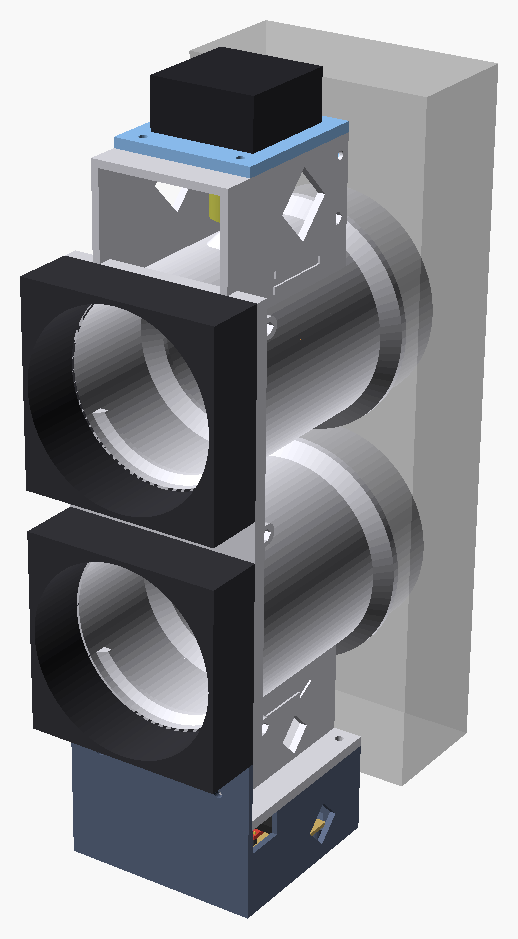
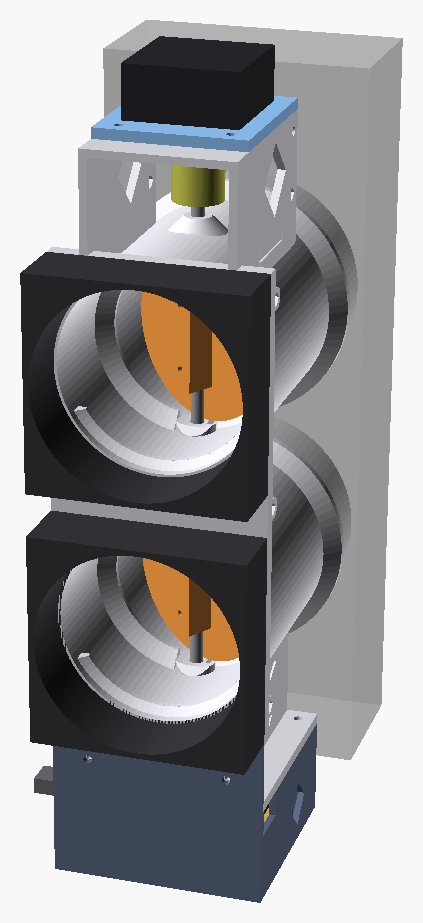
README assembly view: rotate to show the discs in the tubes

diff --git a/tools/render_images.py b/tools/render_images.py
@@ -95,7 +95,7 @@ def t(name):
 
 # name -> function producing images/<name>
 def assembly():
-    save(render(t("a.png"), VENT, "0,0,0,65,0,215,0", (1000, 1100), ['angle=30'], viewall=True), "assembly.png")
+    save(render(t("a.png"), VENT, "0,0,0,68,0,198,0", (1000, 1100), ['angle=30'], viewall=True), "assembly.png")
 
 def damper_section():
     ims = [render(t(f"cut{a}.png"), None, "0,40,200,0,0,0,330", (700, 600), ortho=True, text=f"a = {a};\n" + CUT)
